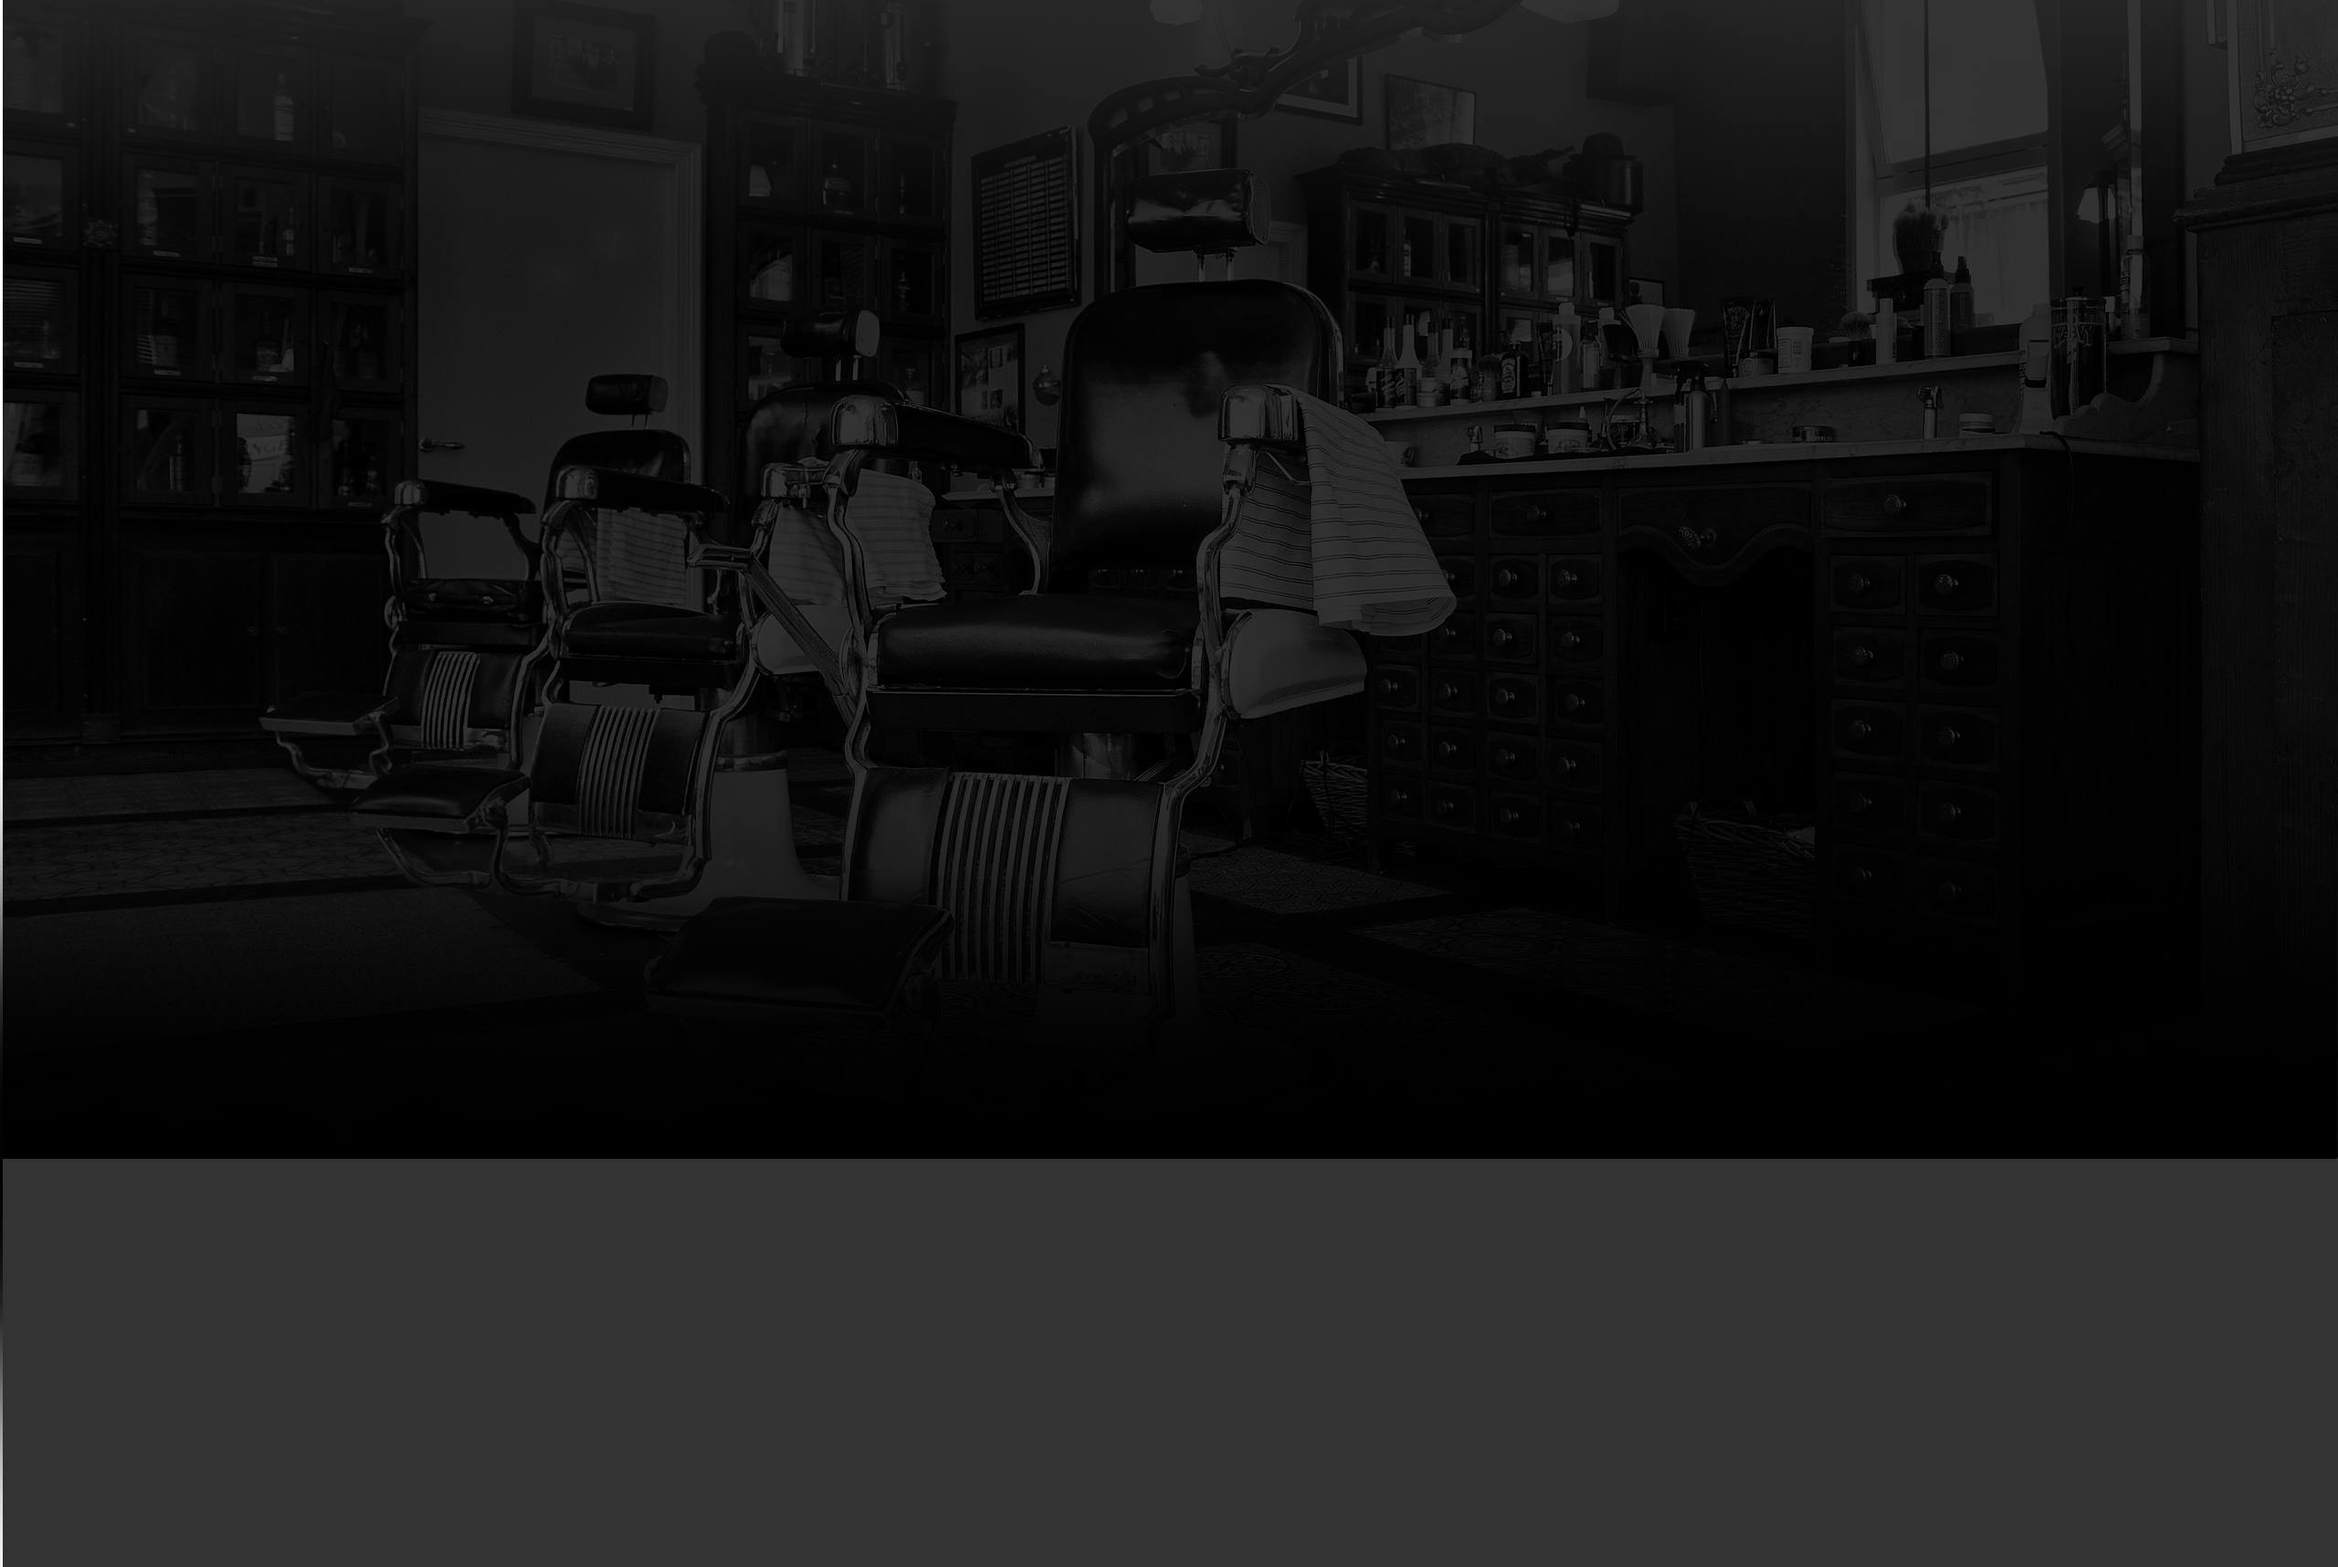
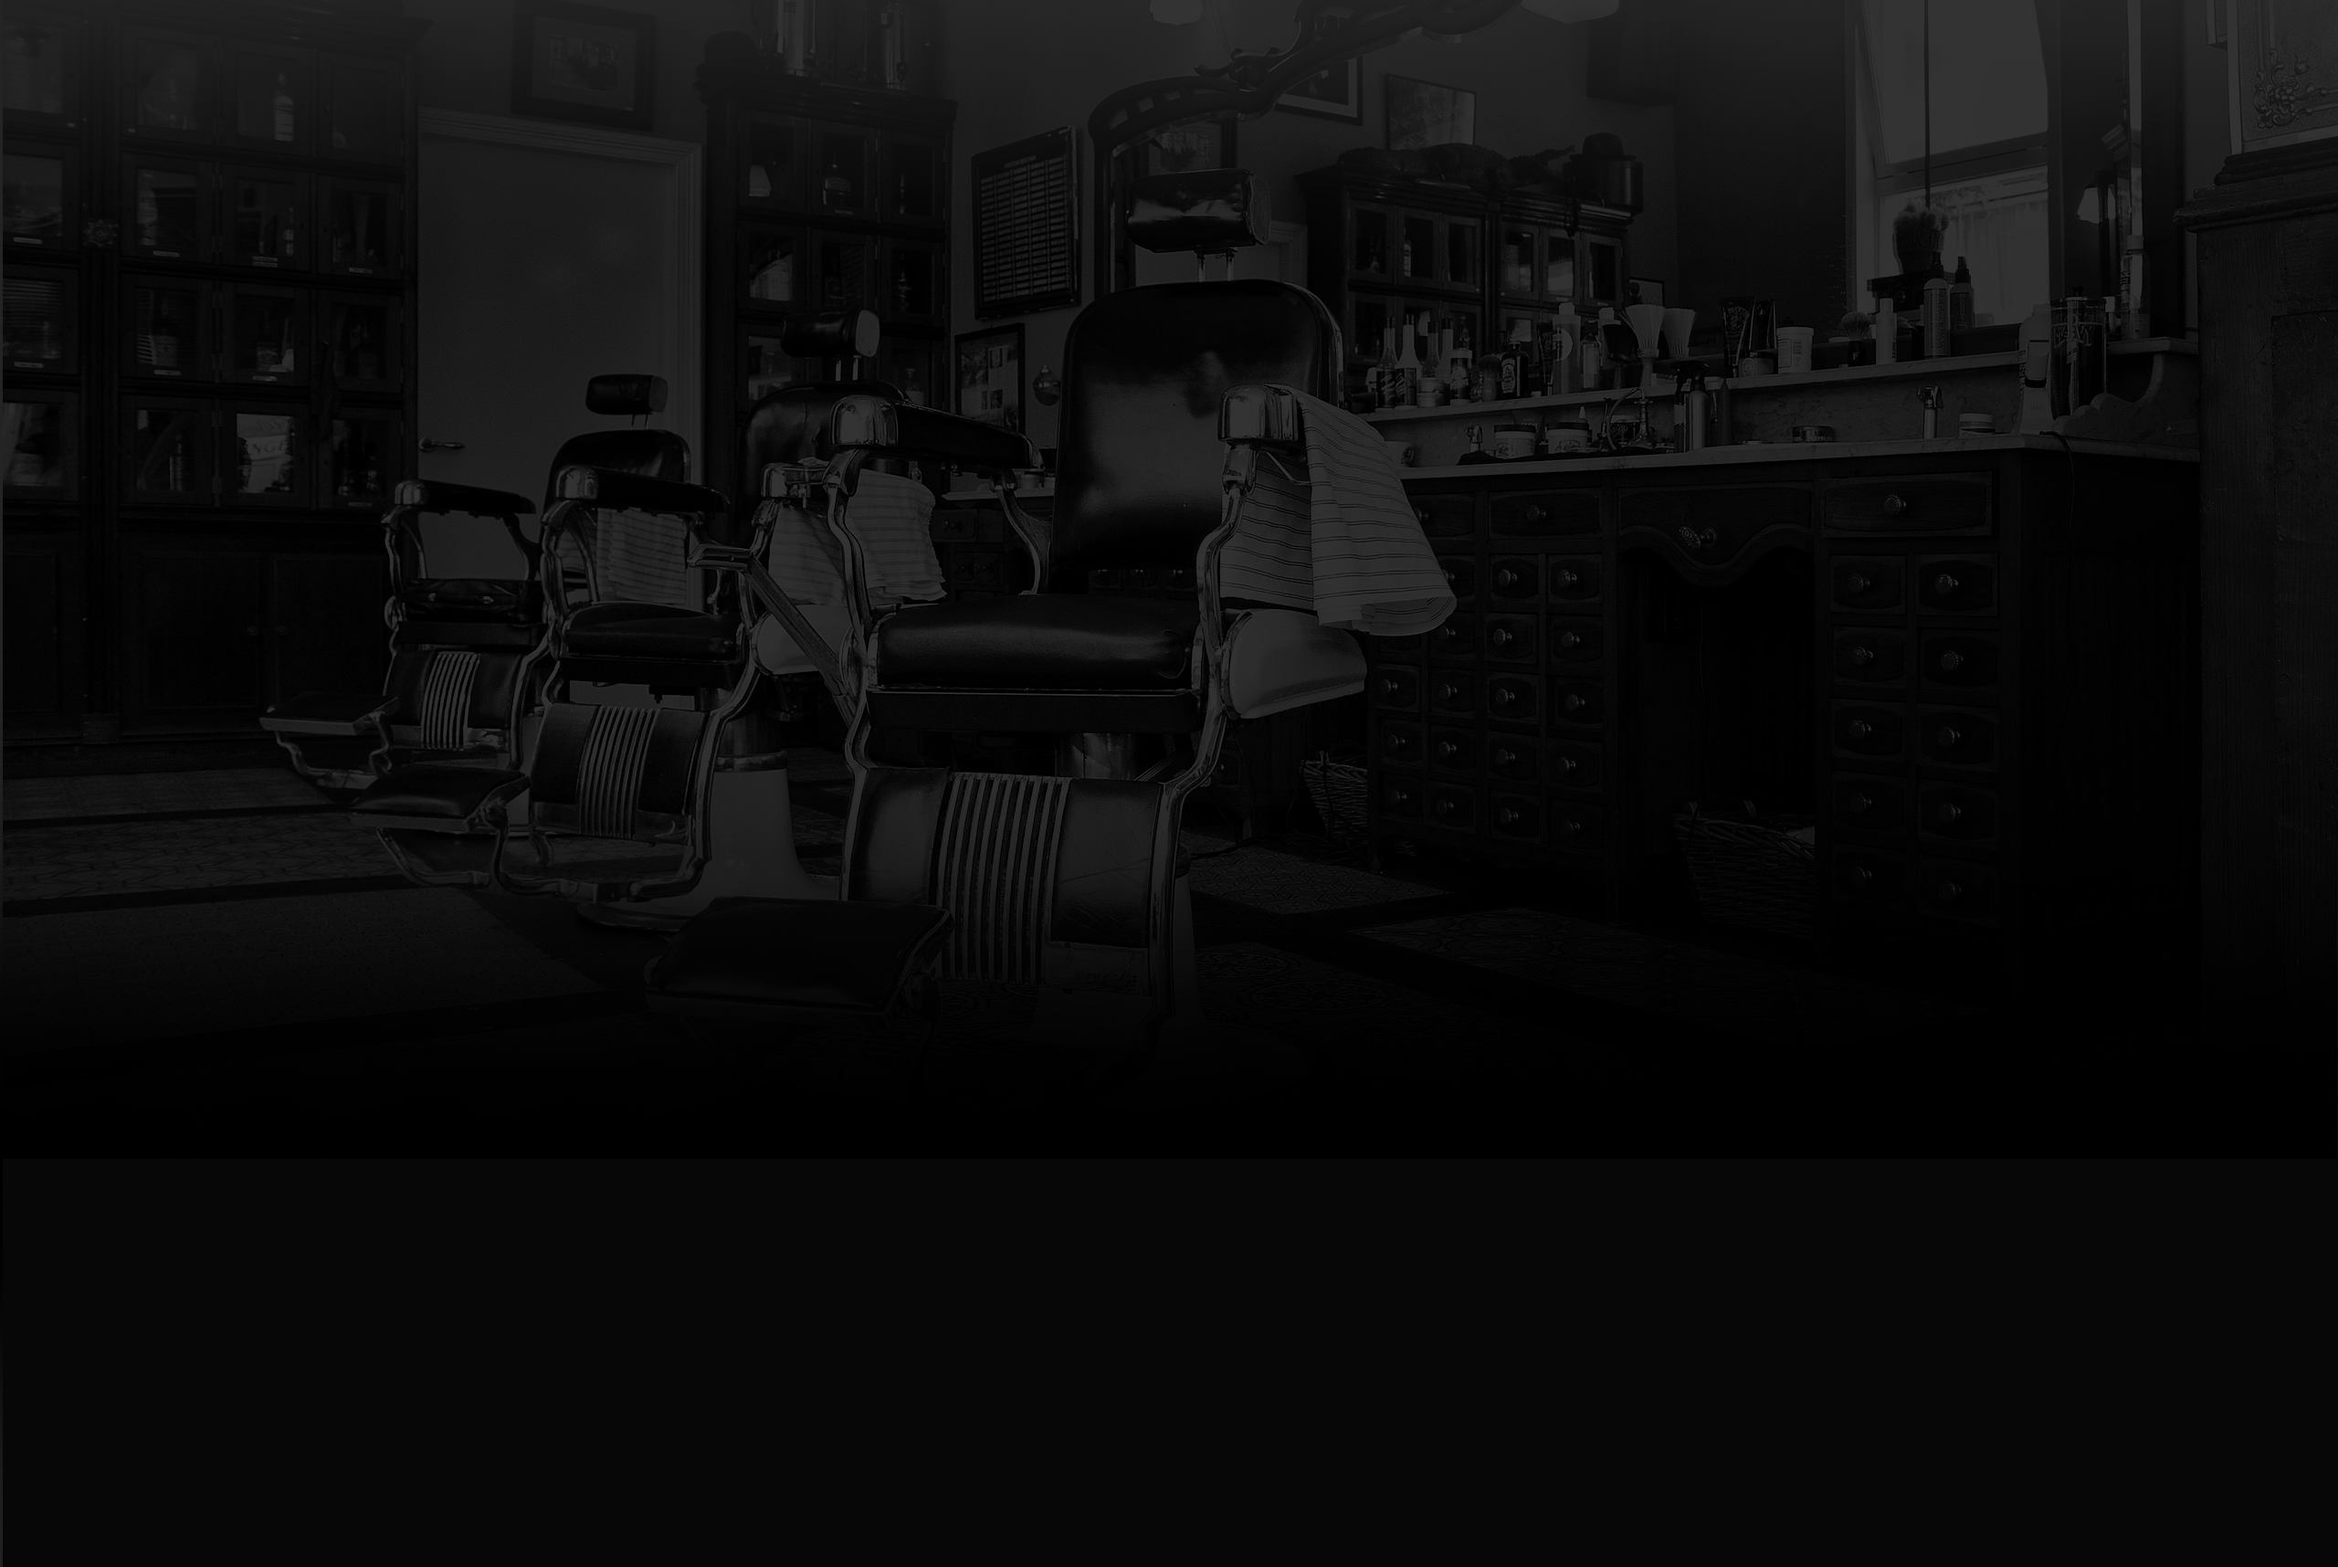
add new decorative elements

Changed region(s): [[0.0, 0.7413, 1.0, 1.0]]

diff --git a/css/style.css b/css/style.css
@@ -100,6 +100,9 @@ time {
   line-height: 18px;
   text-decoration: none;
 }
+.catalog-content {
+  margin-top:40px;
+}
 .catalog-item {
   color: #000000;
 }
@@ -130,7 +133,6 @@ time {
   width: 940px;
   padding: 0 10px;
   margin: 0 auto;
-  outline:2px solid white;
 }
 .clearfix::after {
   content: "";
@@ -170,13 +172,19 @@ time {
 .login::before {
   content: "";
   position: absolute;
-  top: 28px;
-  left: 20px;
+  top: 20px;
+  left: 8px;
 
-  width: 18px;
-  height: 18px;
+  width: 29px;
+  height: 28px;
 
-  background: #ff0000;
+  background: transparent url("../img/sprite.png") no-repeat;
+  background-size:200px 40px ;
+  background-position: -0px 0px;
+  opacity: 0.3;
+}
+.login:hover::before {
+  opacity: 1;
 }
 .main-header {
   margin-bottom: 60px;
@@ -215,8 +223,10 @@ time {
 }
 .teksture2 {
    color:#000000;
-   background:#f0edea;
-
+   background:#f0edea  url("../img/teksture.png");
+}
+.teksture3 {
+  background:#202020  url("../img/teksture3.png");
 }
 .index-content-title {
   margin: 0;
@@ -342,20 +352,20 @@ time {
   clear: both;
   width: 100%;
 }
+.second-nav {
+  padding-bottom:30px;
+}
 .main-footer {
-  outline:2px solid white;
-  margin-top:65px;
   padding-top:60px;
   padding-bottom:40px;
 
   color: #ffffff;
 
-  background: #252525 url("img/pattern-black.jpg");
+  background:#202020  url("../img/teksture3.png");
 }
 .footer-contacts {
-  outline:2px solid white;
   float:left;
-  width:320px;
+  width:380px;
   margin-right: 60px;
 }
 .footer-contacts a {
@@ -366,7 +376,6 @@ time {
 }
 .float-social {
 float:left;
-outline:2px solid white;
 width:180px;
 
 text-align: center;
@@ -385,7 +394,8 @@ text-align: center;
   vertical-align: top;
   text-decoration: none;
 
-  background: #000000 url("img/sprite.png") no-repeat center;
+  background: #000000 url("../img/sprite.png") no-repeat center;
+  background-size:200px 40px ;
 
   transition:
     background-position 0.5s,
@@ -395,15 +405,15 @@ text-align: center;
   background-color: #ffffff;
 }
 .social-btn-vk {
-  background-position: 9px -447px;
+  background-position: -48px 5px;
 }
 
 .social-btn-fb {
-  background-position: 15px -171px;
+  background-position: -98px 5px;
 }
 
 .social-btn-inst {
-  background-position: 12px -313px;
+  background-position: -158px 5px;
 }
 .social-btn-vk:hover {
   background-position: 9px -381px;
@@ -417,7 +427,6 @@ text-align: center;
   background-position: 12px -242px;
 }
 .footer-copyright{
-  outline:2px solid white;
   float:right;
   max-width: 180px;
   margin-top:-80px;
@@ -438,14 +447,12 @@ text-align: center;
 }
 .content-selection-foto {
   width:460px;
-  outline:3px solid green;
 }
 .other-image {
   width:460px;
 }
 .catalog-item-content-left {
   float: left;
-  outline:3px solid green;
   padding:0px;
 }
 .content-information {
@@ -469,23 +476,35 @@ text-align: center;
   margin-top:40px;
 }
 .component-parts {
+  position:relative;
   width: 240px;
+  list-style: none;
+}
+.news-preview-text::after {
+  content: "";
+  position: absolute;
+  top:7px;
+  left:-20px;
+
+  transform: rotate(45deg);
+  display: block;
+  width: 8px;
+  height: 8px;
+
+  background-color: #000000;
 }
 .content-selection {
   float:left;
   width:230px;
-  outline:3px solid green;
 
 }
 .content-image {
   float:right;
   width:700px;
-  outline:3px solid green;
   background-color: #ffffff;
-
 }
+
 .content-image-ul {
-  outline:3px solid green;
   margin:0;
   padding:0;
 
@@ -511,29 +530,36 @@ text-align: center;
 }
 .breadcrumbs {
 
-  outline:3px solid green;
 }
 .breadcrumbs-li {
   display: inline-block;
   margin-right:35px;
 }
+.breadcrumbs-li:last-child a {
+  color:#aeaeae;
+}
 .breadcrumbs-ul {
 
   padding: 0px;
-  outline:3px solid green;
 }
 .under-nav::after {
   content: "";
   position: absolute;
   bottom:6px;
-  left:60px;
+  right:-23px;
   margin-right;:-8px;
   transform: rotate(45deg);
   display: block;
   width: 8px;
-  height: 7px;
+  height: 8px;
 
   background-color: #000000;
+}
+.breadcrumbs-li:last-child .under-nav::after {
+  display:none;
+}
+.number-of-page {
+  background: #f5f2ef url("../img/teksture.png");
 }
 .number-of-page ul {
   margin:0;
@@ -541,15 +567,18 @@ text-align: center;
 }
 .paginator-li {
   display: inline-block;
-  padding:15px;
+  padding:21.5px 18.5px;
+  line-height: 1px;
   margin-right: 5px;
+  margin-top:40px;
+  margin-bottom:40px;
 
 }
 .page-nmb {
   display:block;
 
   font-size:  14px;
-  line-height: 18px;
+  line-height: 1px;
   font-family: "PT Sans Narrow", "Arial", sans-serif;
   font-weight: 700;
   text-transform: uppercase;
@@ -559,49 +588,42 @@ text-align: center;
 }
 .paginator-li:hover {
   background-color: #ffffff;
+
+}
+.paginator-li:hover a {
   color:#000000;
 }
 
 .main-navigation-li {
   display:inline-block;
   vertical-align: top;
-  outline:3px solid green;
 }
 .other-image-li {
   display:inline-block;
   vertical-align: top;
-  outline:3px solid green
   padding:0px;
   margin:0 auto;
 }
 .other-image-ul {
   padding:0px;
-  outline:13px solid black;
   width:460px;
 }
 .text-container {
   margin:16px;
-  outline:3px solid black;
 }
 .content-image-li {
-  outline:3px solid black;
 }
 .money-value  {
-  outline:3px solid black;
-
 }
 .main-img {
   padding:0;
   margin:0;
-  outline:3px solid black;
 }
 .other-image-ul {
   padding:0;
   margin:0;
-  outline:3px solid black;
 }
 .other-image-li {
-  outline:3px solid black;
   margin-right: 15px;
 }
 .other-image-li:last-child {
@@ -616,6 +638,8 @@ text-align: center;
 }
 .about {
   clear:both;
+  margin-top:33px;
+
 }
 .cont-two {
   margin-top:38px;

diff --git a/catalog-item.html b/catalog-item.html
@@ -7,7 +7,8 @@
     <link rel="stylesheet" href="css/normalize.css">
     <link href="css/style.css" rel="stylesheet">
   </head>
-  <body>
+  <body class="teksture3">
+  <div class="teksture2">
     <header class="main-header">
       <div class="container clearfix">
         <nav class="main-navigation">
@@ -32,7 +33,6 @@
         </div>
       </div>
     </header>
-  <div class="teksture2">
    <main class="container">
      <div class="second-nav">
        <div class="above">
@@ -46,11 +46,11 @@
            <li class="breadcrumbs-li"><a class="under-nav" href="#">Набор для путешествий "BAXTER OF CALIFORNIA"</a></li>
          </ul>
        </div>
-       <div class="content clearfix">
+       <div class="content  catalog-content clearfix">
         <div class="catalog-item-content-left">
          <div class="content-selection-foto">
            <div class="main-img">
-             <img src="img/item9.png" width="470" height="508" alt="Главная картинка">
+             <img src="img/main-img.png" width="470" height="508" alt="Главная картинка">
            </div>
            <div class="other-image clearfix">
              <ul class = "other-image-ul ">
@@ -92,8 +92,10 @@
       </div>
     </main>
   </div>
-    <footer class="main-footer">
-      <div class="container clearfix">
+</div>
+<div class=" teksture3">
+   <footer class="main-footer">
+      <div class="container clearfix ">
         <section class="footer-contacts ">
           Барбершоп «Бородинский»</br>
           Адрес: г. Санкт-Петербург, Б. Конюшенная, д. 19/8<br>
@@ -112,5 +114,6 @@
         </section>
       </div>
     </footer>
+  </div>
   </body>
 </html>

diff --git a/catalog.html b/catalog.html
@@ -226,6 +226,7 @@
                 </div>
                 </li>
             </ul>
+
             <div class="number-of-page">
                <ul>
                  <li class="btn paginator-li"><a class = "page-nmb" href="#">1</a></li>
